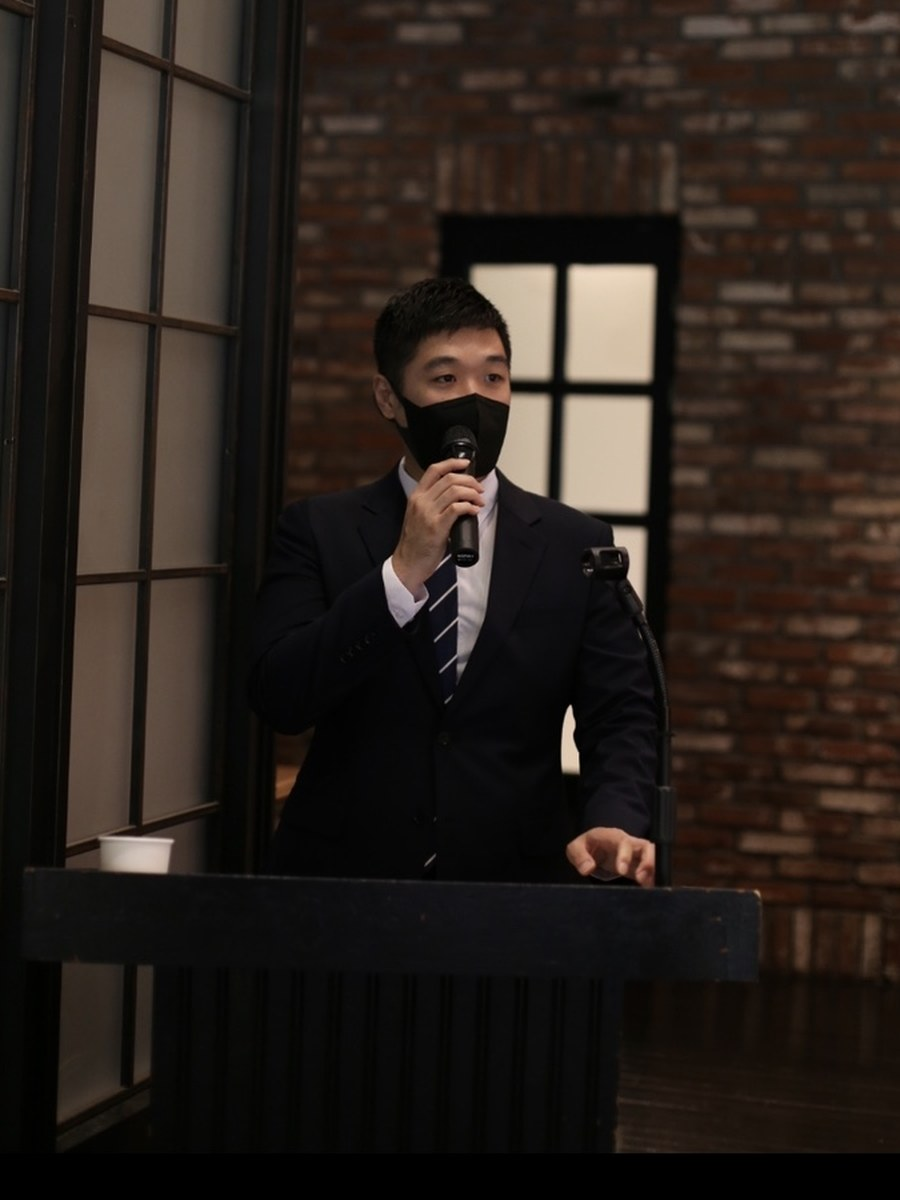
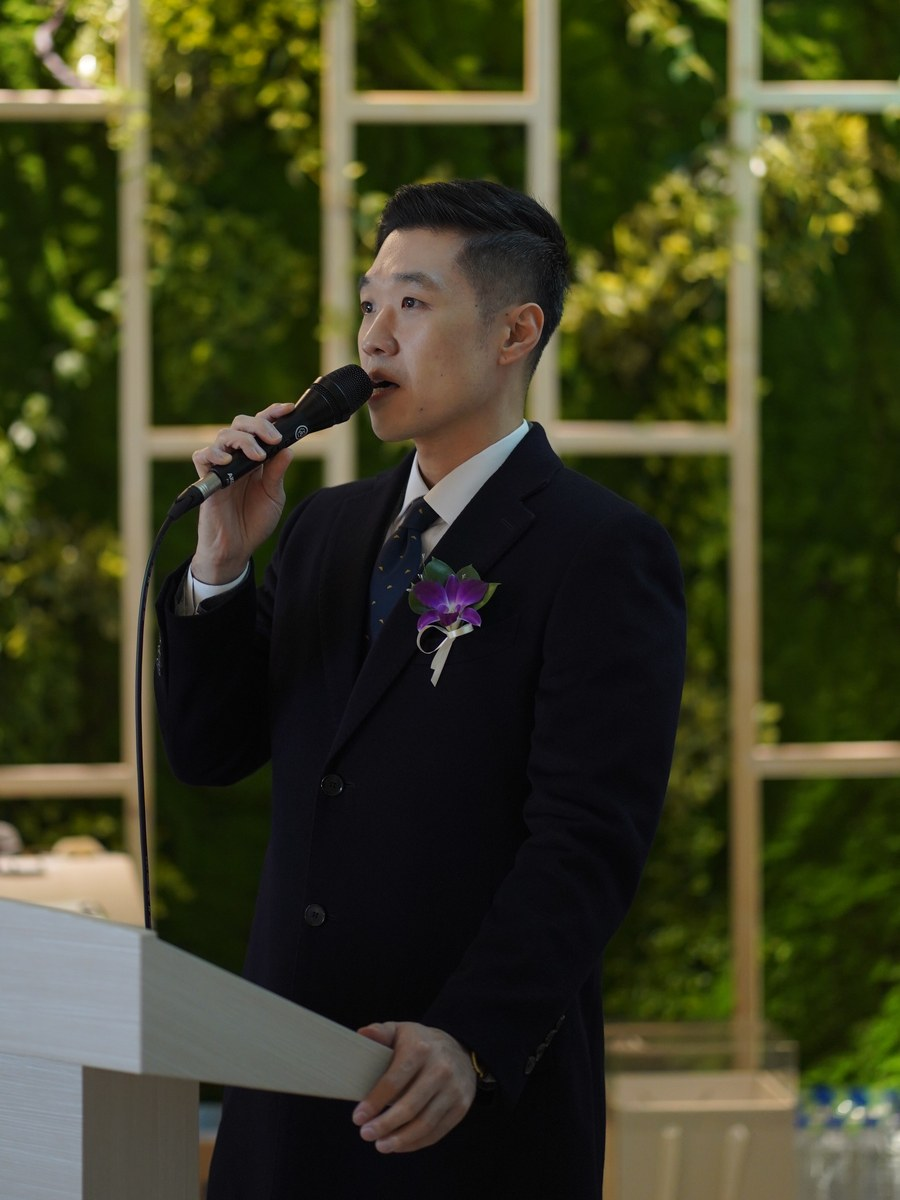
이우영 사회자 모달 프로필 사진 신규 사진으로 교체 + 길상우 프로필 카드 사진 원상복구

diff --git a/client/src/components/sections/McSection.tsx b/client/src/components/sections/McSection.tsx
@@ -127,7 +127,7 @@ const MCS = [
     styles: ["품격형", "밝은형"],
     youtubeId: "0Ske676aw84",
     audioFile: "/audio/mc-gilsangwoo.mp3",
-    profileCardImg: "/images/mc-gilsangwoo-card.jpg",
+    profileCardImg: "",
   },
   {
     name: "최윤아",
